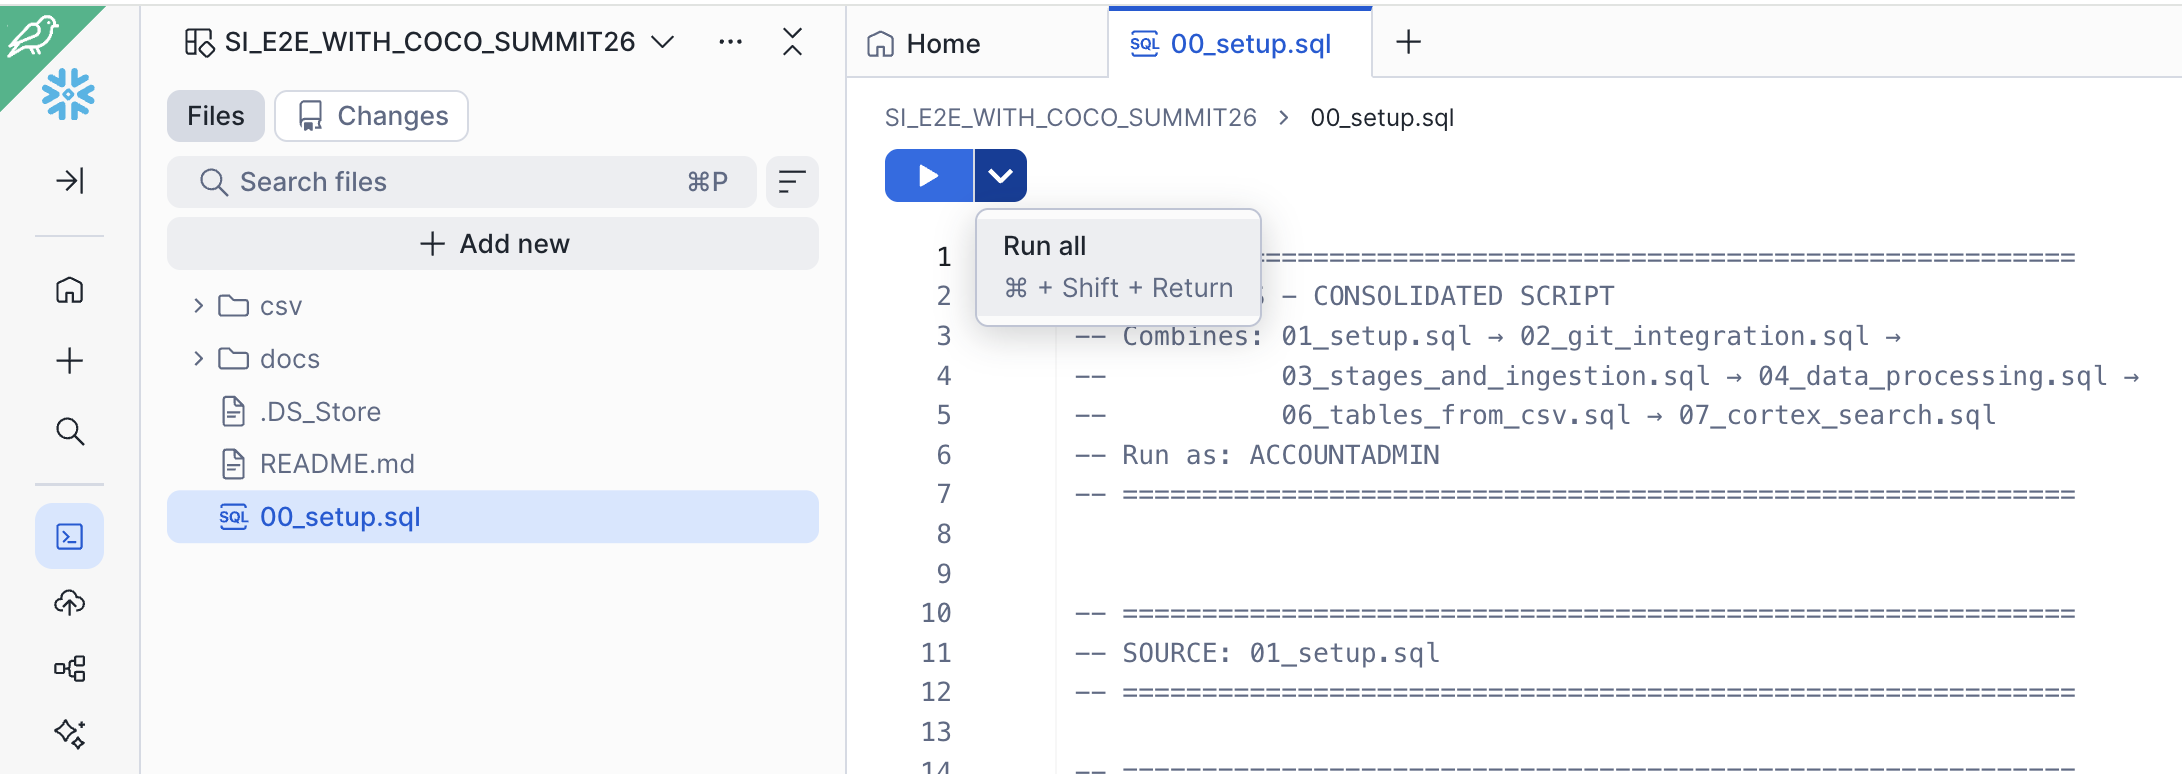
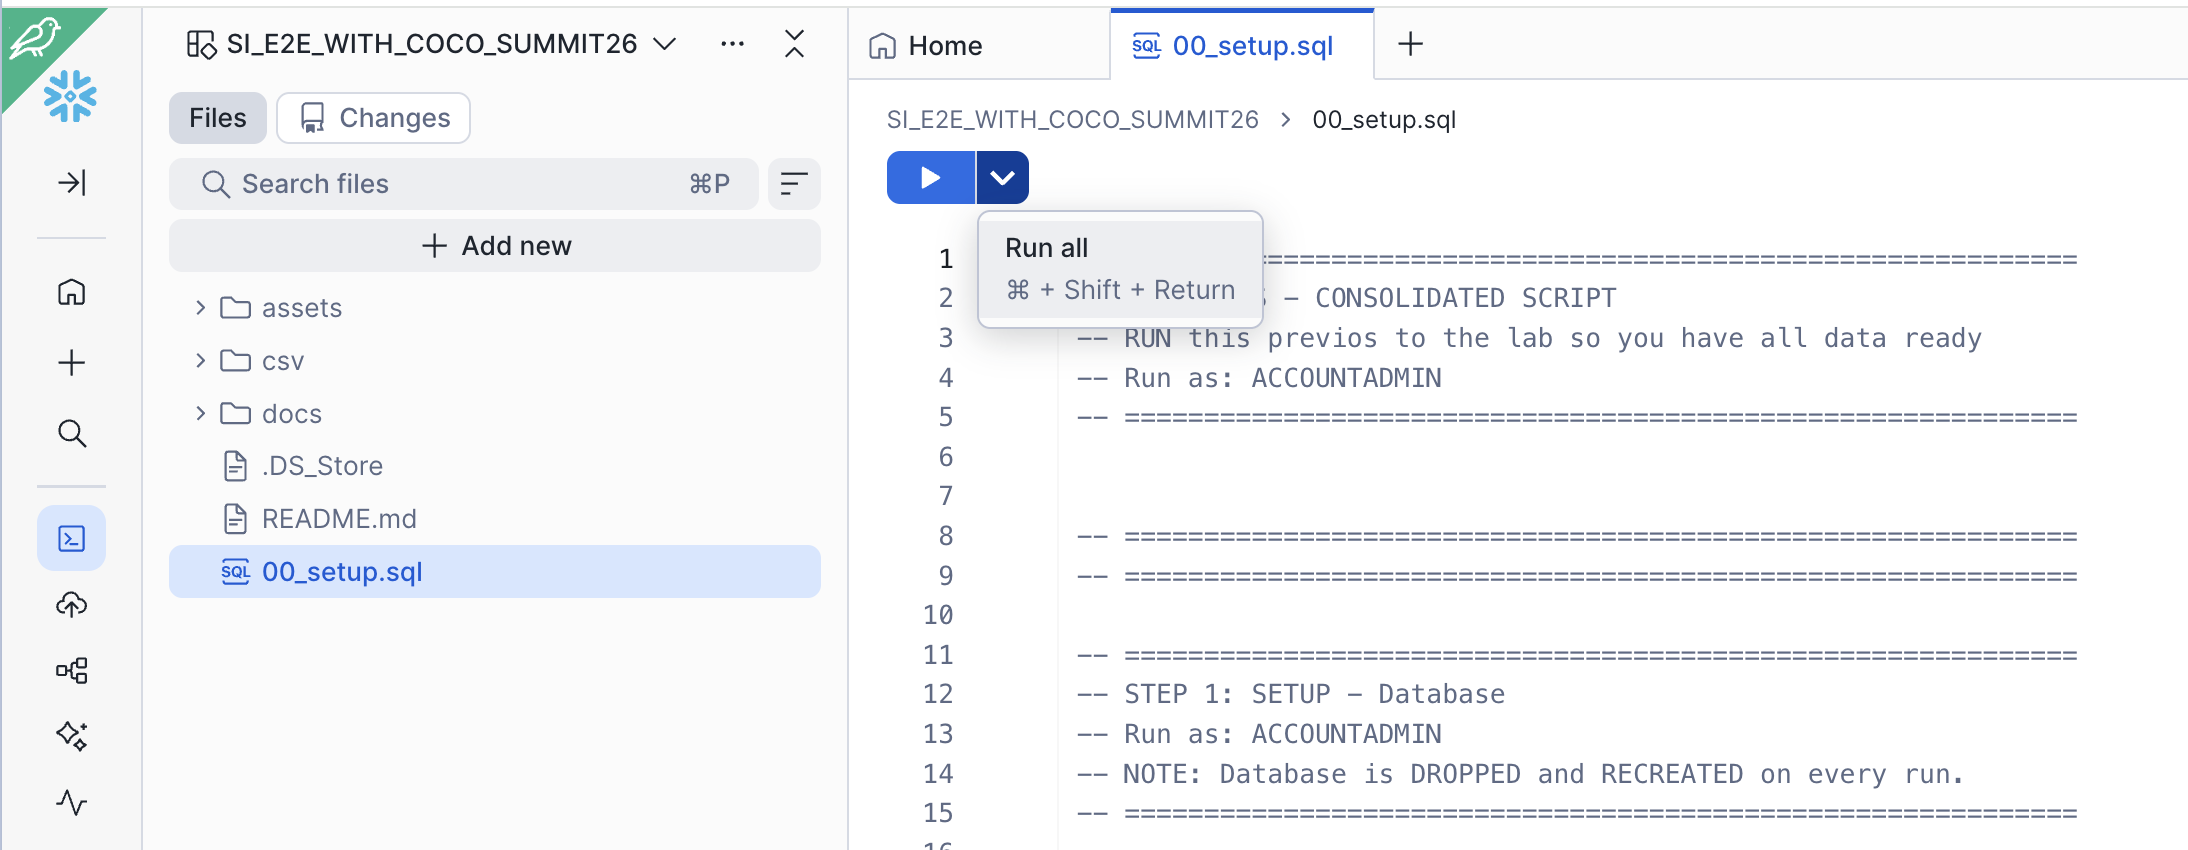
new images

diff --git a/README.md b/README.md
@@ -54,4 +54,25 @@ Click on the 00_setup.sql script and run it all:
 
 ![image](assets/image4.png)
 
-This script will 
+This script will:
+
+** Create or replace a new databse for this lab: CC_CoCo_SNOWFLAKE_INTELLIGENCE_E2E
+** Create stage files and copy the csv, pdf and image files from this repository
+** Parse and classify the PDF documents
+** Describe and classify the images
+** Create Snowflake tables from the CSV files
+** Create Cortex Search Services for the images, documents and customer feedback
+
+This is what we should have to start our lab:
+
+![image](assets/image5.png)
+
+
+## Step 3: Install Cortex Code (CoCo) CLI
+
+Follow the official [installation guide](https://docs.snowflake.com/en/user-guide/cortex-code/cortex-code-cli) to install and configure Cortex Code CLI.
+
+The first prompt asks you to choose a connection from the existing connections in the ~/.snowflake/connections.toml file or to create a new connection.
+
+As you will be connecting to a demo account provisioned for you during this lab, you will have to create a new connection, choose More options* by pressing the down arrow key until it is highlighted, then press Enter. Follow the prompts to enter your Snowflake account details.
+
